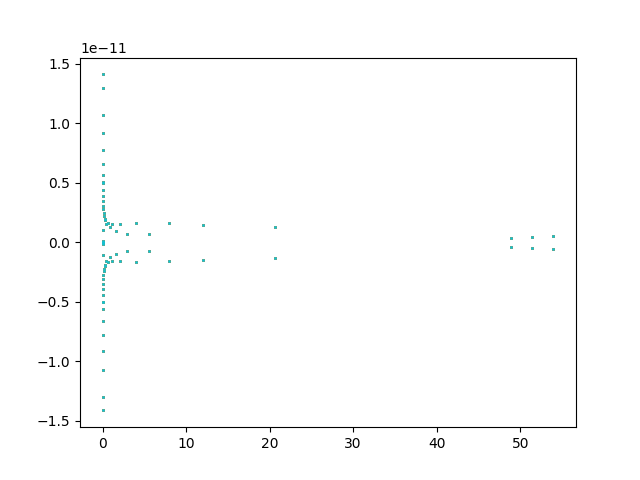
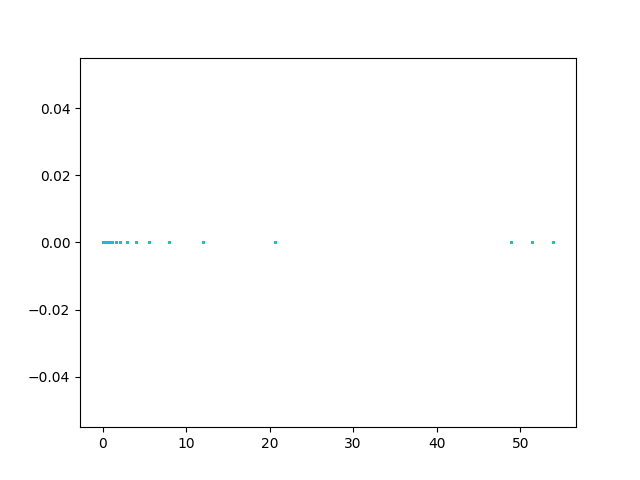
theta with zet & scf 1

diff --git a/theory/Eliashberg/elishberg_2/debug/main_faeb_rewrite.py b/theory/Eliashberg/elishberg_2/debug/main_faeb_rewrite.py
@@ -22,7 +22,7 @@ class parameters:
         self.fmc_max  = 0.05
         self.fmc_min  = 0.0
         self.nfmc  = 1
-        self.nscf = 100
+        self.nscf = 1
 
 class irfunc:
     def __init__(self, Lambda, beta, eps=1e-7):
@@ -223,10 +223,10 @@ class fmc_anisotropic_eliashberg_BCS:
             #print("chi" ,n,  self.chi_temp[len(self.chi_temp)//2,0], linalg.norm(self.chi_temp-self.chi)/linalg.norm(self.chi))
             #print("delta" ,n,  self.delta_zeta_temp[len(self.delta_zeta_temp)//2,0], linalg.norm(self.delta_zeta_temp-self.delta_zeta)/linalg.norm(self.delta_zeta))
     def set_gkfs(self, g, b, p):
-        # self.gkf_m = 1.0 / ( b.iw_F[:,None] * self.zeta + (g.ek_m[None,:]))
-        # self.gkf_p = 1.0 / (-b.iw_F[:,None] * self.zeta + (g.ek_p[None,:]))
-        self.gkf_m = 1.0 / ( b.iw_F[:,None]  + (g.ek_m[None,:]))
-        self.gkf_p = 1.0 / (-b.iw_F[:,None]  + (g.ek_p[None,:]))
+        self.gkf_m = 1.0 / ( b.iw_F[:,None] * self.zeta + (g.ek_m[None,:]))
+        self.gkf_p = 1.0 / (-b.iw_F[:,None] * self.zeta + (g.ek_p[None,:]))
+        # self.gkf_m = 1.0 / ( b.iw_F[:,None]  + (g.ek_m[None,:]))
+        # self.gkf_p = 1.0 / (-b.iw_F[:,None]  + (g.ek_p[None,:]))
     def set_frt_zeta(self, g, b, p):
         #_ = (1/self.gkf_m) * (1/self.gkf_p) + self.delta_zeta*conj(self.delta_zeta)
         #_ = 1/(self.gkf_p*conj(self.gkf_m)) + self.delta_zeta*conj(self.delta_zeta)
